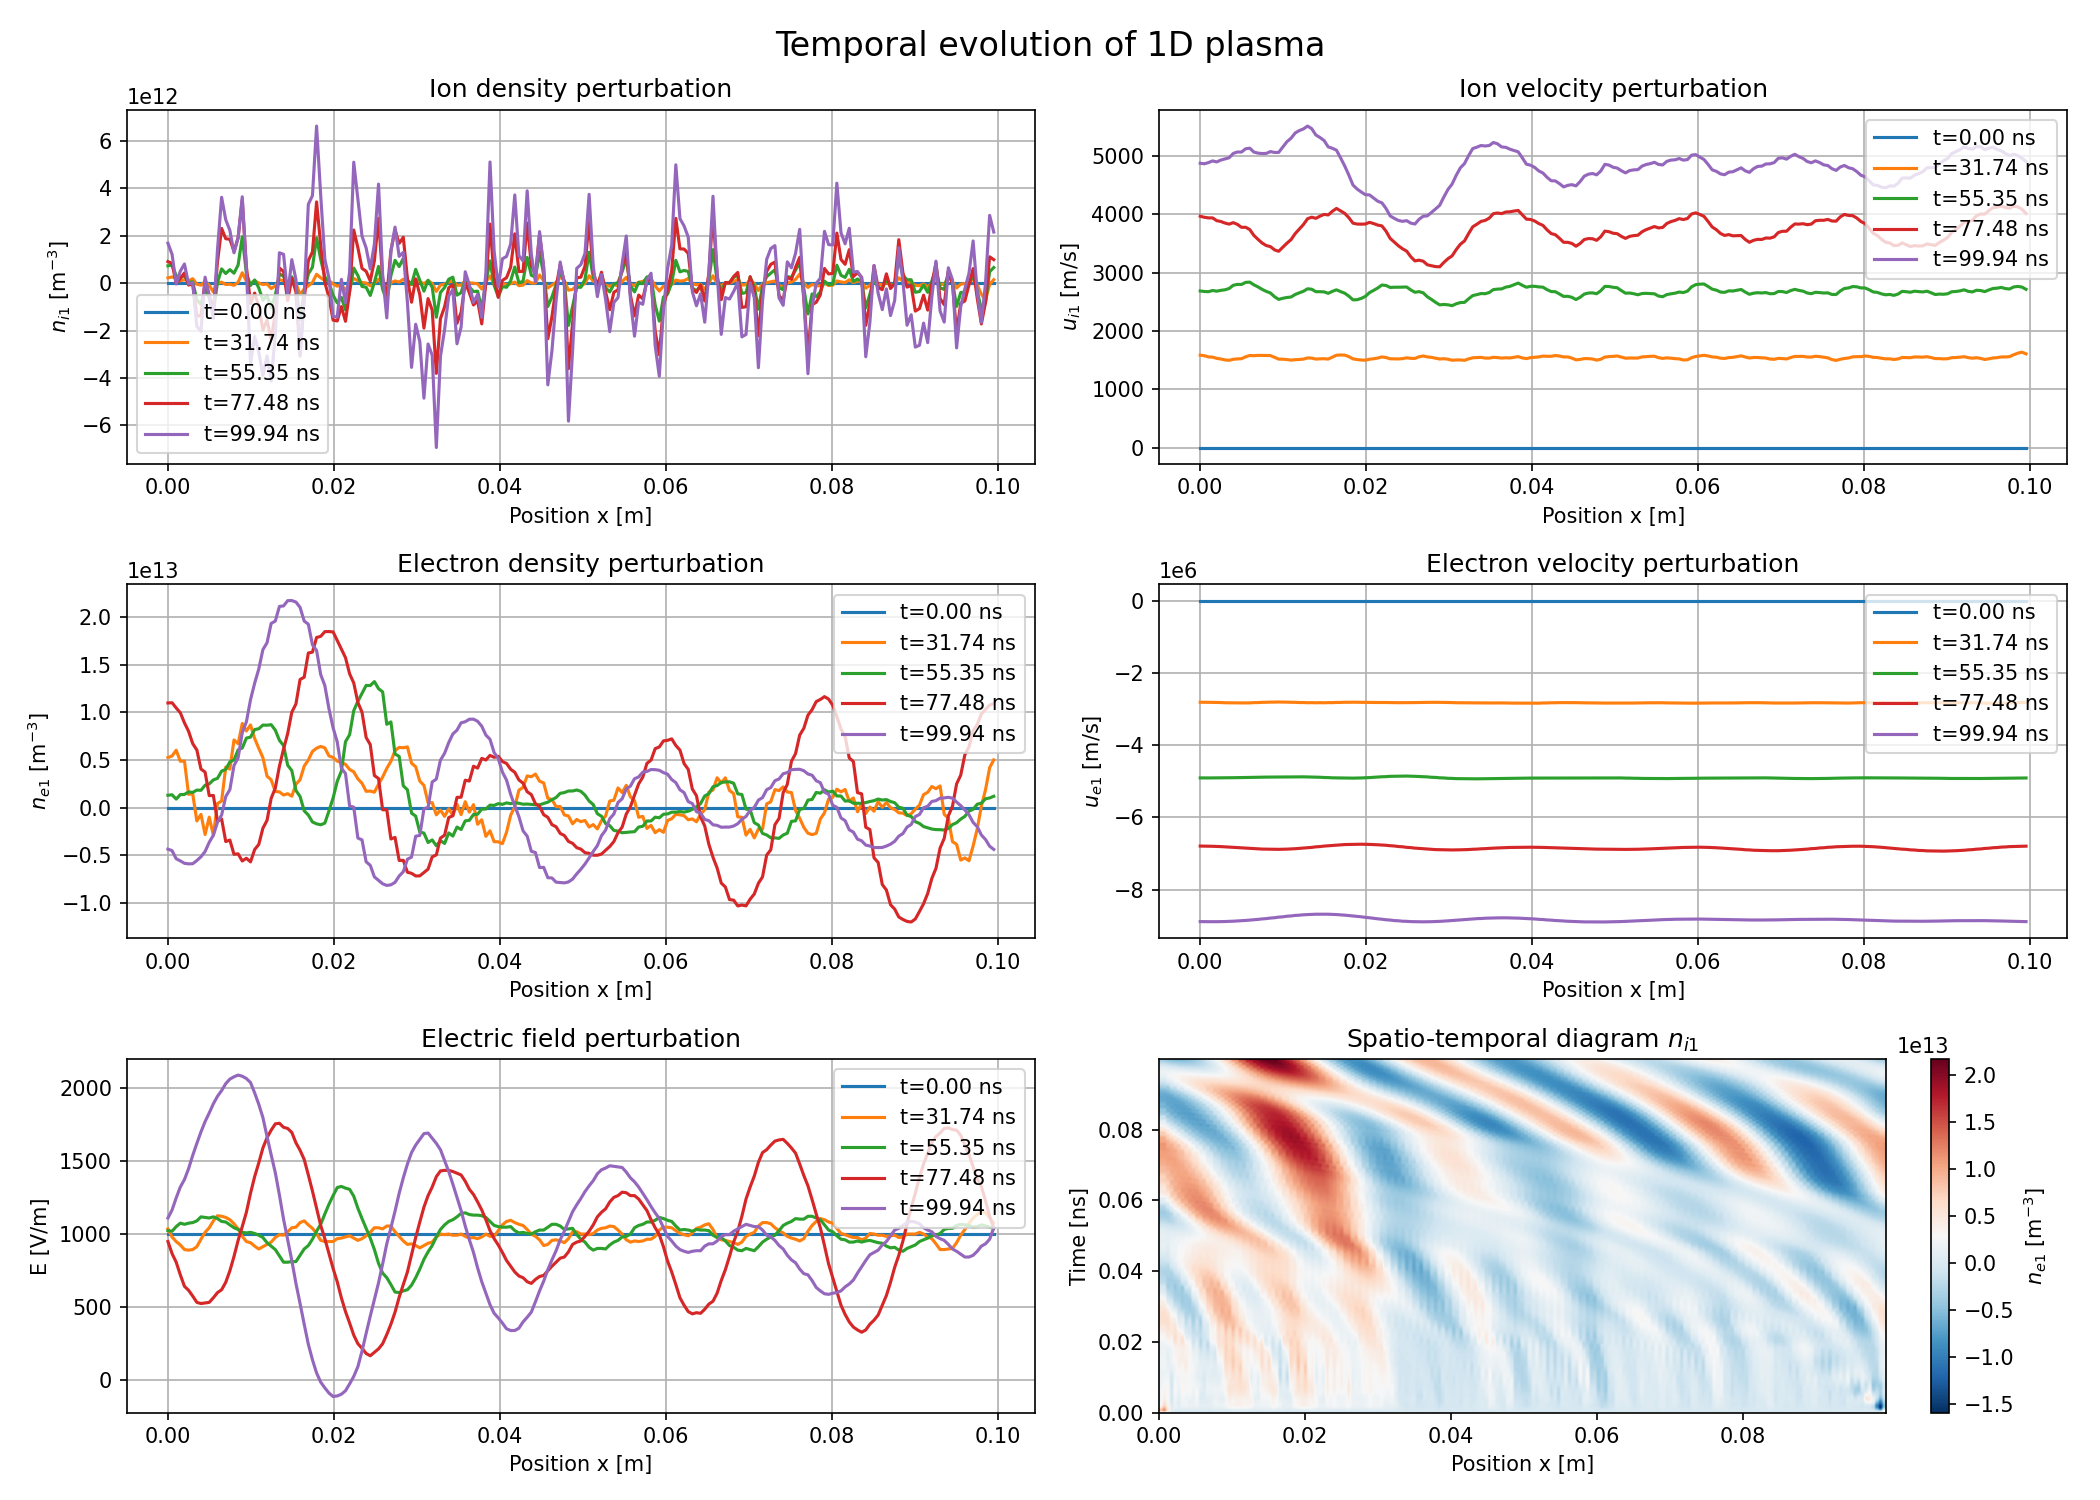
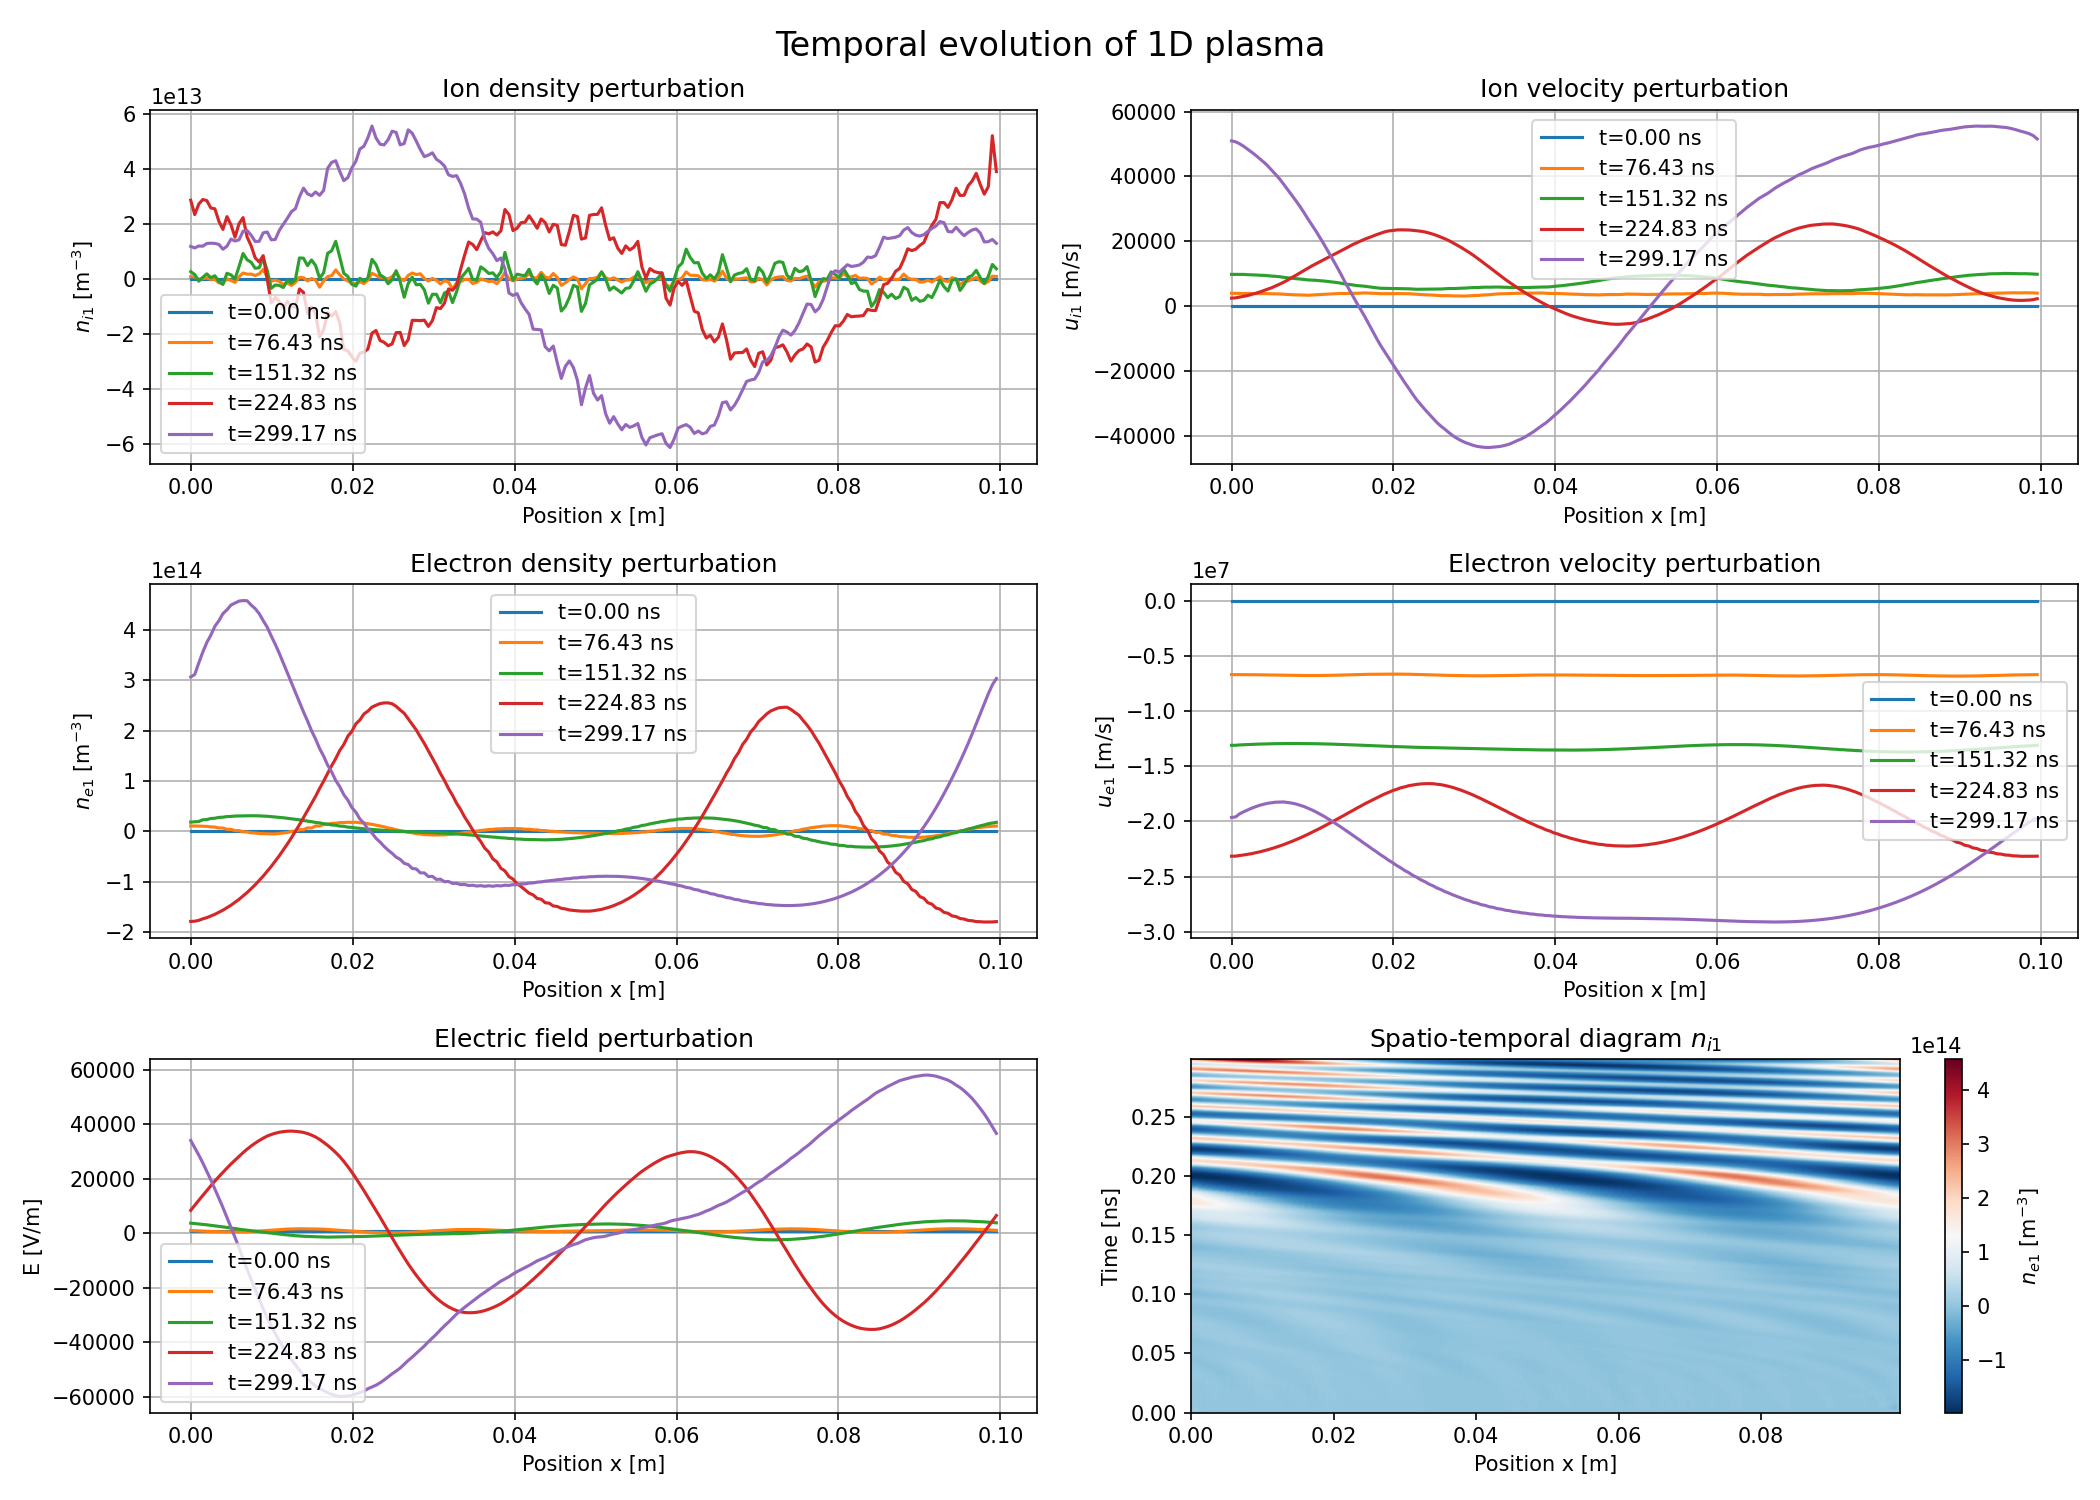
Space charge at 1e-7 s

diff --git a/src/main.cpp b/src/main.cpp
@@ -21,7 +21,7 @@ int main() {
     
     // Time domain
     double t0 = 0.0;              // Start time [s]
-    double tf = 1e-7;             // End time [s]
+    double tf = 3e-7;             // End time [s] We observe the space charge effect at 1e-7 s
     double dt_data = 1e-9;        // Data saving interval [s]
     
     std::cout << "=== Simulation Parameters ===" << std::endl;
